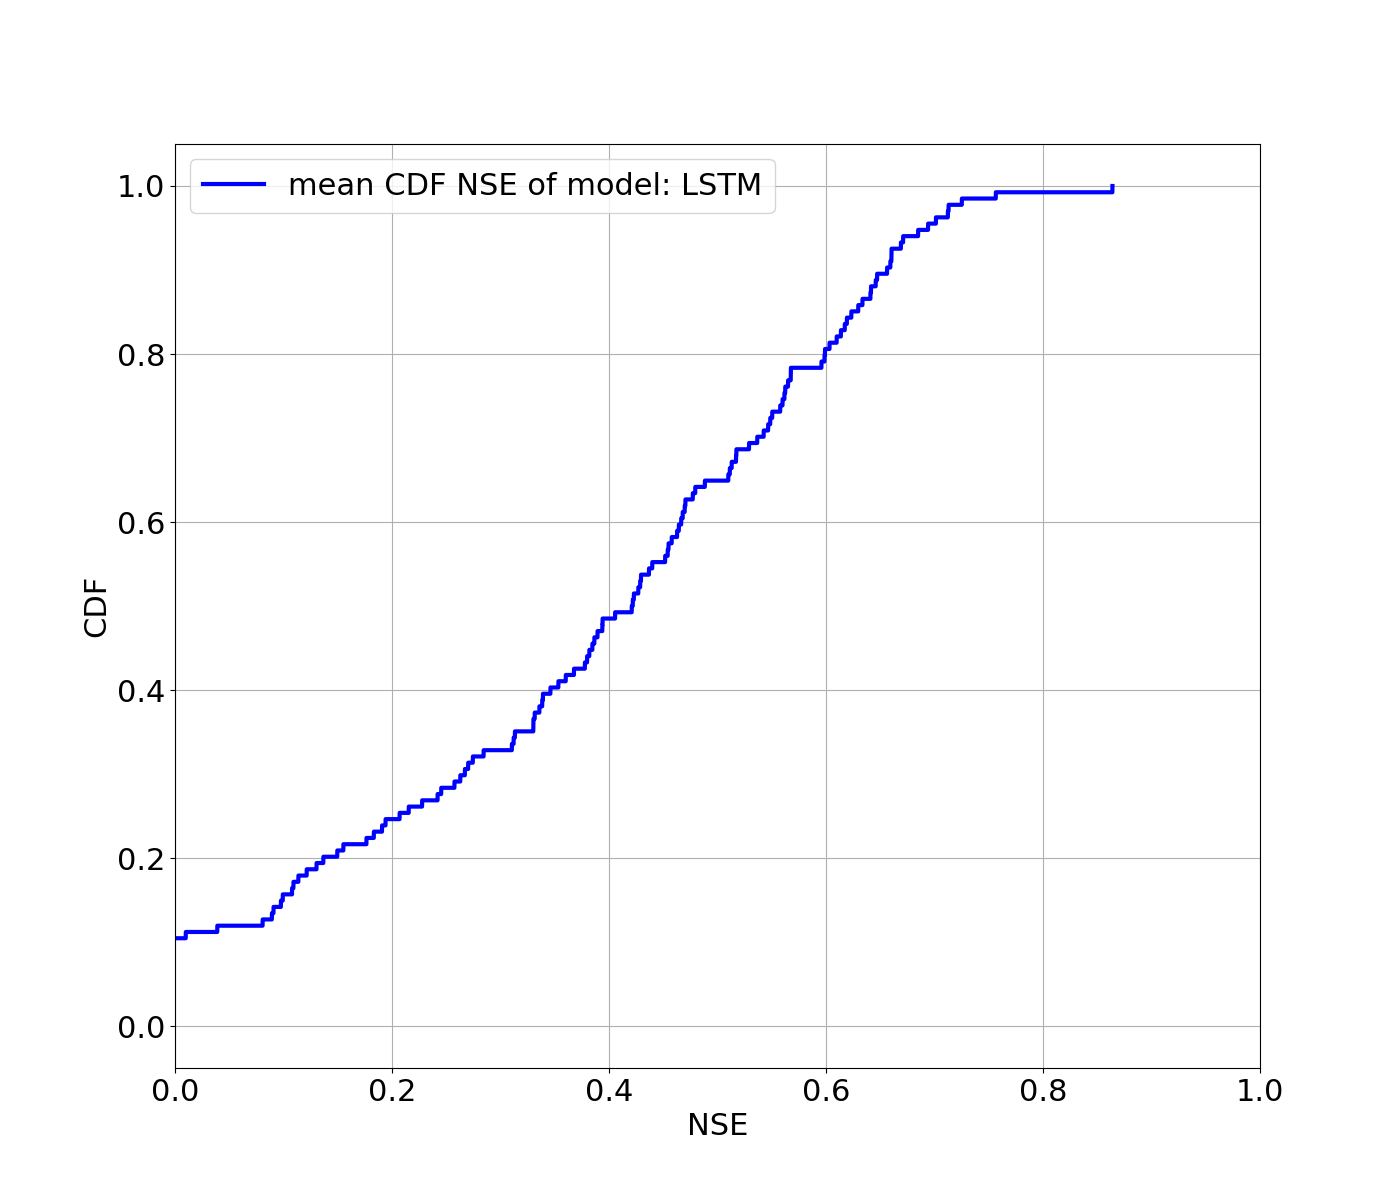
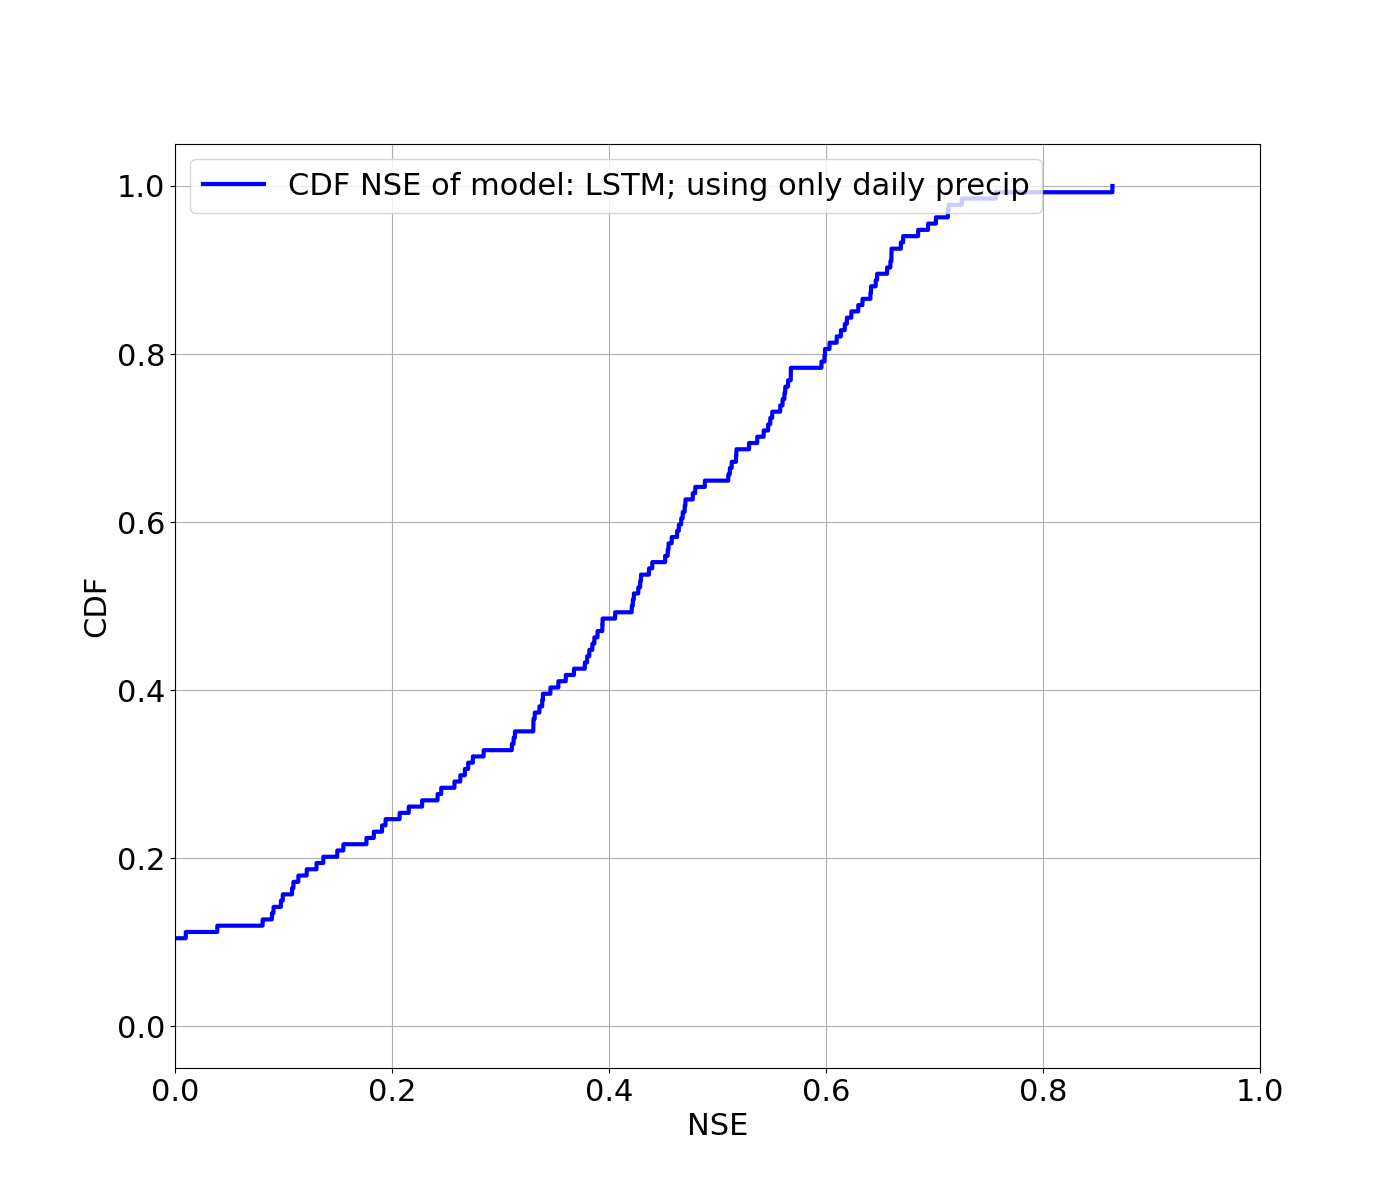
changing creating NSE plots script - adding an option for plotting different types of models (with zeros, with random noise)

Changed region(s): [[0.215, 0.1233, 0.7371, 0.185]]

diff --git a/src/create_CDF_NSE_comparison_plot_from_slurm_output.py b/src/create_CDF_NSE_comparison_plot_from_slurm_output.py
@@ -89,6 +89,7 @@ def create_dict_basin_id_to_NSE_my_code(logs_filename):
     run_number = 0
     epoch_num = 1
     params_tuple = ()
+    dict_params = {}
     with open(logs_filename, "r", encoding="utf-8") as f:
         for row in f:
             match_parameters_dict = re.search(r"running with parameters: \{", row)
@@ -110,13 +111,21 @@ def create_dict_basin_id_to_NSE_my_code(logs_filename):
                     models_basins_nse_dict[
                         (model_name, f"{new_run_number}_{slurm_process_id}", epoch_num, params_tuple)] = {}
                     print(f"run number: {run_number}")
-            match_model_name_string = re.search("running with model: (.*?)\n", row)
-            if match_model_name_string:
-                new_model_name = match_model_name_string.group(1)
+            # match_model_name_string = re.search("running with model: (.*?)\n", row)
+            new_model_name = dict_params.get("model_name", None)
+            if new_model_name:
+                # new_model_name = match_model_name_string.group(1)
+                if dict_params["use_only_precip_feature"]:
+                    new_model_name = f"{new_model_name};\nusing only daily precip"
+                if dict_params["use_random_noise_spatial"]:
+                    new_model_name = f"{new_model_name};\nwith random noise"
+                if dict_params["use_zeros_spatial"]:
+                    new_model_name = f"{new_model_name};\nwith zeros"
                 if new_model_name != model_name:
                     model_name = new_model_name
-                epoch_num = 1
-                models_basins_nse_dict[(model_name, f"{run_number}_{slurm_process_id}", epoch_num, params_tuple)] = {}
+                    epoch_num = 1
+                    models_basins_nse_dict[
+                        (model_name, f"{run_number}_{slurm_process_id}", epoch_num, params_tuple)] = {}
             match_nse_string = re.search("station with id: (.*?) has nse of: (.*?)\n", row)
             if match_nse_string:
                 basin_id = match_nse_string.group(1)
@@ -152,7 +161,7 @@ def calc_dicts_from_all_runs_and_all_files(input_file_paths):
 def plot_NSE_CDF_graphs_my_code():
     # input_file_names = ["slurm-17775252.out", "slurm-17782018.out", "slurm-17828539.out",
     #                     "slurm-17832148.out", "slurm-17837642.out", "slurm-18941386.out"]
-    input_file_names = ["slurm-19089603.out", "slurm-19100407.out"]
+    input_file_names = ["slurm-19089603.out", "slurm-19100407.out", "slurm-19114239.out"]
     input_file_paths = [Path(f"../slurm_output_files/slurm_files_ensemble_comparison/{file_name}").resolve() for
                         file_name in input_file_names]
     dict_all_runs_from_all_files, dict_avg_runs_from_all_files = calc_dicts_from_all_runs_and_all_files(
@@ -165,30 +174,32 @@ def plot_NSE_CDF_graphs_my_code():
         [input_file_path.name.replace('slurm-', '').replace('.out', '') for input_file_path in input_file_paths])
     plot_title = f"NSE CDF of slurm files - {input_files_names_formatted}"
     plt.rcParams.update({'font.size': 22})
-    model_names_cross_product_list = list(itertools.combinations(model_names, 2)) + list(
-        itertools.combinations(model_names, 1)) + list(itertools.combinations(model_names, 3))
+    model_names_cross_product_list = (
+        # list(itertools.combinations(model_names, 1)) +
+        # list(itertools.combinations(model_names, 2)) +
+        list(itertools.combinations(model_names, 3)))
     for pair_model_names in model_names_cross_product_list:
         figure(figsize=(14, 12))
-        for ind, model_name in enumerate(pair_model_names):
-            for run_number in run_numbers:
-                for basin_tuple in all_basins_tuples:
-                    for params_dict in params_dicts:
-                        if (
-                                model_name, run_number, basin_tuple,
-                                params_dict) not in dict_all_runs_from_all_files.keys():
-                            continue
-                        print(f"number of basins of model with name: {model_name} "
-                              f"and run number: {run_number} is: {len(basin_tuple)}")
-                        if len(basin_tuple) != 135:
-                            continue
-                        plot_CDF_NSE_basins(
-                            dict_all_runs_from_all_files[(model_name, run_number, basin_tuple, params_dict)],
-                            params_dict,
-                            model_name=model_name,
-                            num_basins=len(basin_tuple),
-                            plot_color=COLORS_LIST[ind],
-                            plot_opacity=0.6,
-                            line_width=0.5)
+        # for ind, model_name in enumerate(pair_model_names):
+        #     for run_number in run_numbers:
+        #         for basin_tuple in all_basins_tuples:
+        #             for params_dict in params_dicts:
+        #                 if (
+        #                         model_name, run_number, basin_tuple,
+        #                         params_dict) not in dict_all_runs_from_all_files.keys():
+        #                     continue
+        #                 print(f"number of basins of model with name: {model_name} "
+        #                       f"and run number: {run_number} is: {len(basin_tuple)}")
+        #                 if len(basin_tuple) != 135:
+        #                     continue
+        #                 plot_CDF_NSE_basins(
+        #                     dict_all_runs_from_all_files[(model_name, run_number, basin_tuple, params_dict)],
+        #                     params_dict,
+        #                     model_name=model_name,
+        #                     num_basins=len(basin_tuple),
+        #                     plot_color=COLORS_LIST[ind],
+        #                     plot_opacity=0.6,
+        #                     line_width=0.5)
         for ind, model_name in enumerate(pair_model_names):
             for params_dict in params_dicts:
                 if (model_name, params_dict) not in dict_avg_runs_from_all_files.keys():
@@ -201,12 +212,12 @@ def plot_NSE_CDF_graphs_my_code():
                     plot_color=COLORS_LIST[ind],
                     plot_opacity=1,
                     line_width=3,
-                    label=f"mean CDF NSE of model: {model_name.replace('_', '-')}")
+                    label=f"CDF NSE of model: {model_name.replace('_', '-')}")
         # if plot_title != "":
         #     plt.title(plot_title)
         plt.legend(loc='upper left')
         plt.grid()
-        plt.savefig("NSE_CDF" + f"_{'_'.join(pair_model_names)}")
+        plt.savefig("NSE_CDF" + f"_{'_'.join(pair_model_names)}".replace('\n', ' '))
         plt.clf()
 
 
